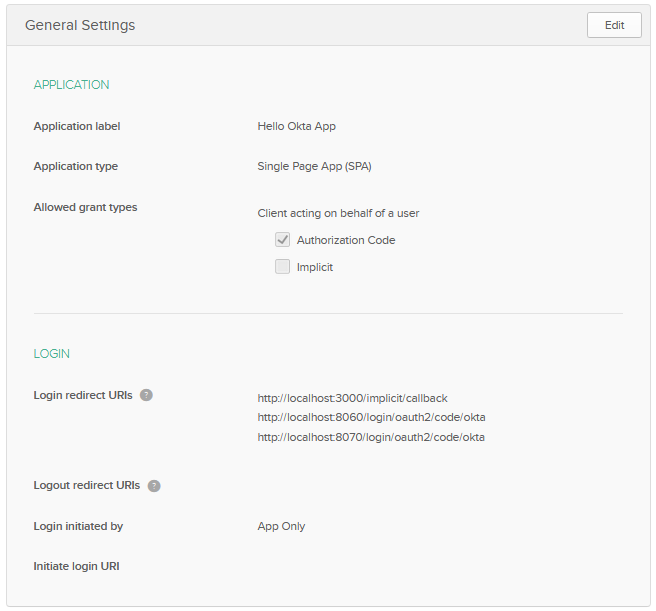
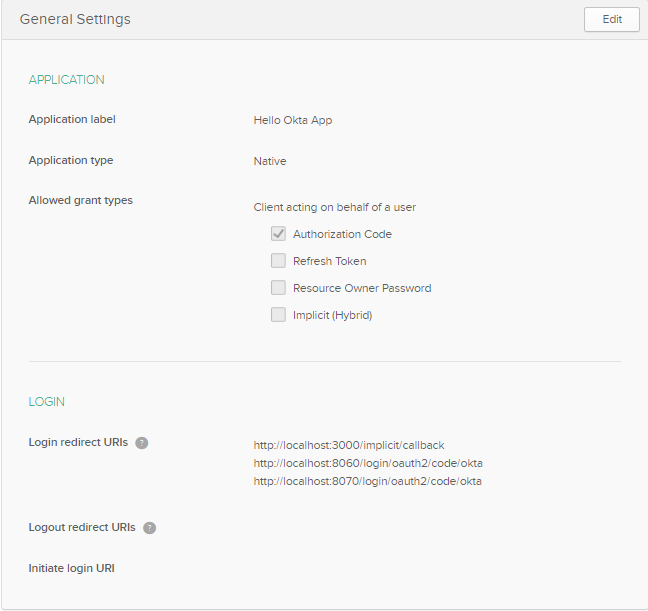
Auth Code with PKCE - Native App

diff --git a/README.md b/README.md
@@ -77,14 +77,13 @@ Look for the email to complete the initialization of your Okta org.
 
 Login to your Okta account.
 Navigate to **Applications** in the admin console and click: **Add Application**. 
-Choose _Web_ and click **Next**.
+Choose _Native_ and click **Next**.
 
 Populate the fields with these values:
 
 | FIELD NAME | VALUE |
 | --- | ---|
 | **Name** | `Hello Okta App` |
-| **Base URIs** | http://localhost:8060<br>http://localhost:8070<br>http://localhost:3000 |
 | **Login redirect URIs** | http://localhost:8060/login/oauth2/code/okta<br>http://localhost:8070/login/oauth2/code/okta<br>http://localhost:3000/implicit/callback |
 | **Allowed grant types** | `Authorization Code` |
 
@@ -94,7 +93,11 @@ Click **Done**.
 
 ![Hello Okta App General Settings](images/01-Hello-Okta-App.PNG)
 
-Scroll down to the **Client Credentials** section and copy the `Client ID` and `Client Secret`. These values will be used by our app.
+Scroll down to the **Client Credentials** section and copy the `Client ID`. This value will be used by our app.
+
+Make sure that:
+* **Initiate login URI** is empty
+* **Use PKCE (for public clients)** radio button is selected as **Client authentication** in **Client Credentials** section.
 
 ### Set Up Client Application
 
